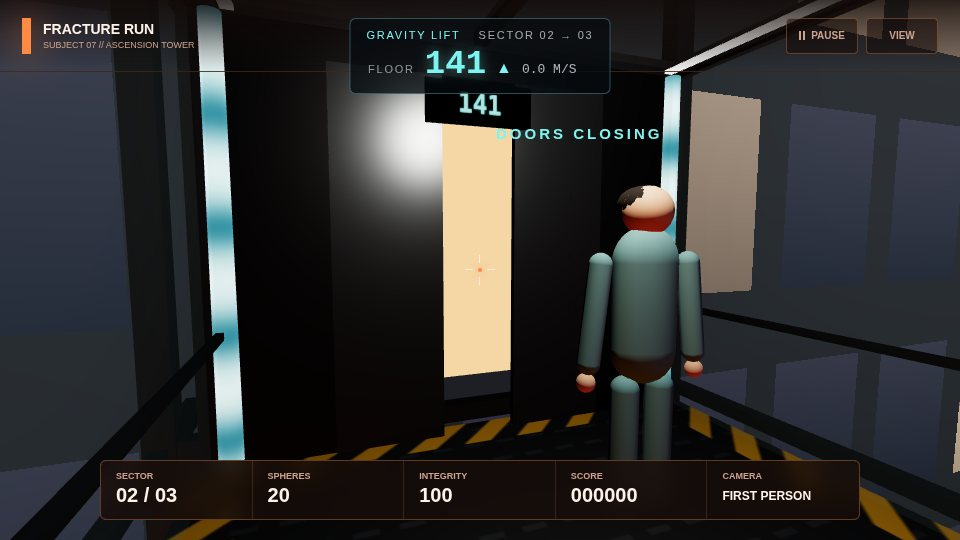
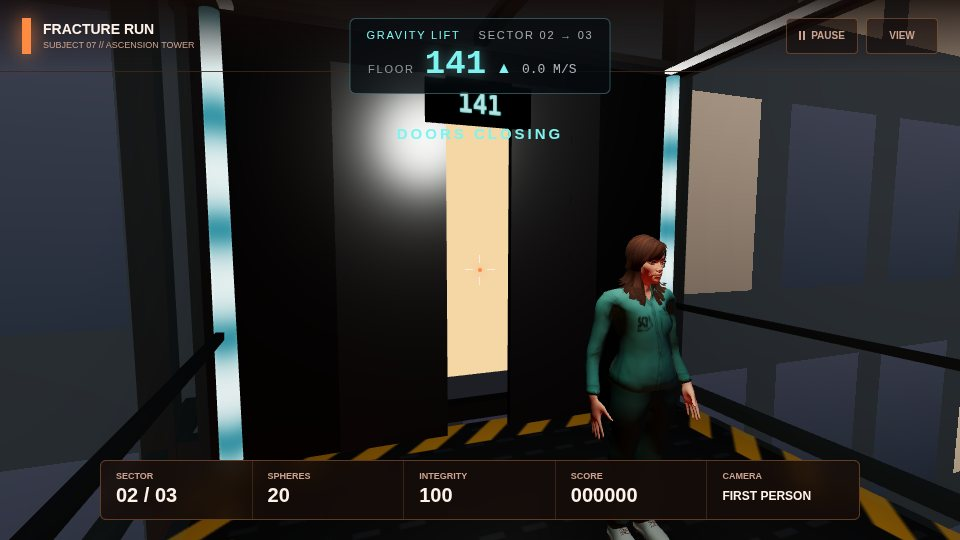
Show the chosen character in the Gravity Fault lift ride

diff --git a/src/elevators/gravity-fault.js b/src/elevators/gravity-fault.js
@@ -35,7 +35,9 @@
  *   |-- GravityLiftCabin moves up the shaft
  *   |   |-- frame, glass, doors, floor display, energy conduits
  *   |   |-- cabin light
- *   |   `-- Subject07    the figure (hidden in first-person shots)
+ *   |   `-- PlayerRoot   the character picked on the start screen (Level 3's
+ *   |                    PlayerAvatar), or a simple figure until it loads;
+ *   |                    hidden in first-person shots
  *   `-- lights           moon, fire uplight from below, hemisphere
  */
 
@@ -43,6 +45,7 @@ import * as THREE from "../three.js";
 import { createRideUniforms } from "./shaders.js";
 import { buildWorld, buildShaft, buildCabin, buildFigure, Owned, STOREY } from "./kit.js";
 import { ElevatorHud } from "../ui/elevator-hud.js";
+import { PlayerAvatar } from "../levels/meltdown/player.js";
 
 /** Level 2 is floor 140 of Ascension Tower; Level 3 is further up. */
 export const START_FLOOR = 141;
@@ -88,10 +91,13 @@ export class GravityFaultRide {
    * @param {THREE.WebGLRenderer} o.renderer  the game's renderer
    * @param {number} [o.spheres]  spheres carried in from Level 2
    * @param {boolean} [o.reducedMotion]  less shake, gentler camera moves
+   * @param {THREE.Object3D} [o.character]  the chosen character's model
+   *   template (loadMeltdownAssets), so the ride shows the same person as
+   *   Levels 1 and 2. Without it, a simple stand-in figure.
    * @param {boolean} [o.boarded]  the player boarded in Level 2 already (the
    *   Calibration Lift): start with the doors shut, as the lift launches
    */
-  constructor({ renderer, spheres = 0, reducedMotion = false, boarded = false }) {
+  constructor({ renderer, spheres = 0, reducedMotion = false, boarded = false, character = null }) {
     this.renderer = renderer;
     this.reducedMotion = reducedMotion;
     this.boarded = boarded;
@@ -111,7 +117,7 @@ export class GravityFaultRide {
     this.world = buildWorld(this.uniforms, this.owned);
     this.shaft = buildShaft(this.owned);
     this.cabin = buildCabin(this.uniforms, this.owned);
-    this.figure = buildFigure(this.owned);
+    this.figure = character ? this._characterFigure(character) : buildFigure(this.owned);
     this.figure.root.position.set(-0.35, 0, 0.35);
     this.cabin.root.add(this.figure.root);
     scene.add(this.world.root, this.shaft.root, this.cabin.root);
@@ -178,7 +184,7 @@ export class GravityFaultRide {
     else if (t < LAUNCH_AT + 2.5) this.hud.alert("ASCENDING // SECTOR 03", "info");
     else this.hud.alert(null);
 
-    this.figure.pose(0, time);
+    this.figure.pose(0, time, dt);
 
     // Fades are the host's overlay; the ride only says how dark.
     this.fade = Math.max(1 - s.age / FADE_IN, THREE.MathUtils.clamp((t - (END_AT - FADE_OUT)) / FADE_OUT, 0, 1));
@@ -188,6 +194,22 @@ export class GravityFaultRide {
     }
 
     this._updateCamera(dt, time);
+  }
+
+  /**
+   * The player's own body: Level 3's PlayerAvatar with the chosen model,
+   * arms free (Subject 07 throws by hand), standing. Exposes the same
+   * `root` / `pose()` as the stand-in figure.
+   */
+  _characterFigure(template) {
+    const avatar = new PlayerAvatar();
+    avatar.hold = 0;
+    avatar.setModel(template);
+    this._avatar = avatar;
+    return {
+      root: avatar.root,
+      pose: (float, time, dt = 0) => avatar.update(dt, { speed: 0 }),
+    };
   }
 
   _place(y) {
@@ -264,8 +286,31 @@ export class GravityFaultRide {
     renderer.render(this.scene, this.camera);
   }
 
+  /**
+   * Free what the avatar owns: its stand-in, contact shadow and the rig's
+   * cloned material. The model's geometry and textures are shared with the
+   * game's own player body, so they are left alone.
+   */
+  _disposeAvatar() {
+    const avatar = this._avatar;
+    if (!avatar) return;
+    avatar.standIn.traverse((o) => {
+      if (!o.isMesh) return;
+      o.geometry.dispose();
+      o.material.dispose();
+    });
+    avatar.shadow.geometry.dispose();
+    avatar.shadowMaterial.map?.dispose();
+    avatar.shadowMaterial.dispose();
+    avatar.model?.traverse((o) => {
+      if (o.isMesh) for (const m of [].concat(o.material)) m.dispose();
+    });
+    this._avatar = null;
+  }
+
   dispose() {
     this.visible = false;
+    this._disposeAvatar();
     this.events.clear();
     this.hud.dispose();
     this.owned.dispose();

diff --git a/main.js b/main.js
@@ -232,6 +232,8 @@ avatar.traverse((o) => { if (o.isMesh) o.castShadow = true; });
 const playerBody = new PlayerAvatar();
 playerBody.hold = 0;
 let playerBodyReady = false;
+/** The chosen character's model template, for the lift ride to show the same person. */
+let playerBodyTemplate = null;
 let playerBodyX = 0;
 const playerBodyMaterials = [];
 async function loadPlayerBody(name = savedCharacter()) {
@@ -239,6 +241,7 @@ async function loadPlayerBody(name = savedCharacter()) {
   const asset = assets.get(name);
   if (!asset || name !== savedCharacter()) return;
   playerBody.setModel(asset.template);
+  playerBodyTemplate = asset.template;
   playerBodyMaterials.length = 0;
   // A touch of self-light, so the body reads in Level 1's dark, fire-lit
   // halls (Level 1 turns the global lights off). Set once; the per-level
@@ -1464,7 +1467,11 @@ function startGravityLift({ boarded = false } = {}) {
   foundryLift?.dispose();
   foundryLift = null;
   preloadMeltdown();
-  gravityLift = new GravityFaultRide({ renderer, spheres: ammo, reducedMotion: settings.reducedMotion, boarded });
+  gravityLift = new GravityFaultRide({
+    renderer, spheres: ammo, reducedMotion: settings.reducedMotion, boarded,
+    // The same character as in Levels 1 and 2 (null while it is still loading).
+    character: playerBodyTemplate,
+  });
   gravityLift.onPointerMove(pointer.x, pointer.y);
   // The ride has its own alerts; clear the game's message line for them.
   ui.message.classList.remove("show"); messageTimer = 0;
@@ -2276,6 +2283,7 @@ globalThis.__dbg = {
   get meltdown() { return meltdown; },
   enterMeltdown,
   get gravityLift() { return gravityLift; },
+  get playerBodyTemplate() { return playerBodyTemplate; },
   demoGravityLift,
   get run() { return run; },
   causewayPace,

diff --git a/tests/elevators/checks/gravity-lift.js b/tests/elevators/checks/gravity-lift.js
@@ -62,9 +62,13 @@ export const ride = {
   async run(page) {
     const r = await page.evaluate(async () => {
       const d = globalThis.__dbg;
+      // The chosen character loads in the background; the ride should show it.
+      const w0 = performance.now();
+      while (!d.playerBodyTemplate && performance.now() - w0 < 30000) await new Promise((resolve) => setTimeout(resolve, 200));
       d.resetGame("story");
       d.demoGravityLift();
       const ride = d.gravityLift;
+      const character = !!ride._avatar?.model;
       const shots = [];
       ride.events.on("shot", ({ shot }) => shots.push(shot));
       let departed = false;
@@ -84,6 +88,7 @@ export const ride = {
       }
       return {
         shots,
+        character,
         departed,
         arrived,
         maxY,
@@ -97,6 +102,7 @@ export const ride = {
     });
     const failures = [];
     for (const shot of ["doors", "exterior", "interior"]) if (!r.shots.includes(shot)) failures.push(`shot "${shot}" never played`);
+    if (!r.character) failures.push("the ride does not show the character picked on the start screen");
     if (!r.departed) failures.push("the lift never departed");
     if (r.maxY < 40) failures.push(`the cabin only climbed ${r.maxY.toFixed(1)} m`);
     if (!r.arrived) failures.push("the ride never finished");

diff --git a/tests/elevators/run.js b/tests/elevators/run.js
@@ -103,8 +103,10 @@ async function main() {
     await mkdir(dir, { recursive: true });
     for (const [name, at, pointer] of SHOTS) {
       await open();
-      await page.evaluate(([seconds, p]) => {
+      await page.evaluate(async ([seconds, p]) => {
         const d = globalThis.__dbg;
+        const w0 = performance.now();
+        while (!d.playerBodyTemplate && performance.now() - w0 < 30000) await new Promise((resolve) => setTimeout(resolve, 200));
         d.resetGame("story");
         d.demoGravityLift();
         d.setPointer(...p);
